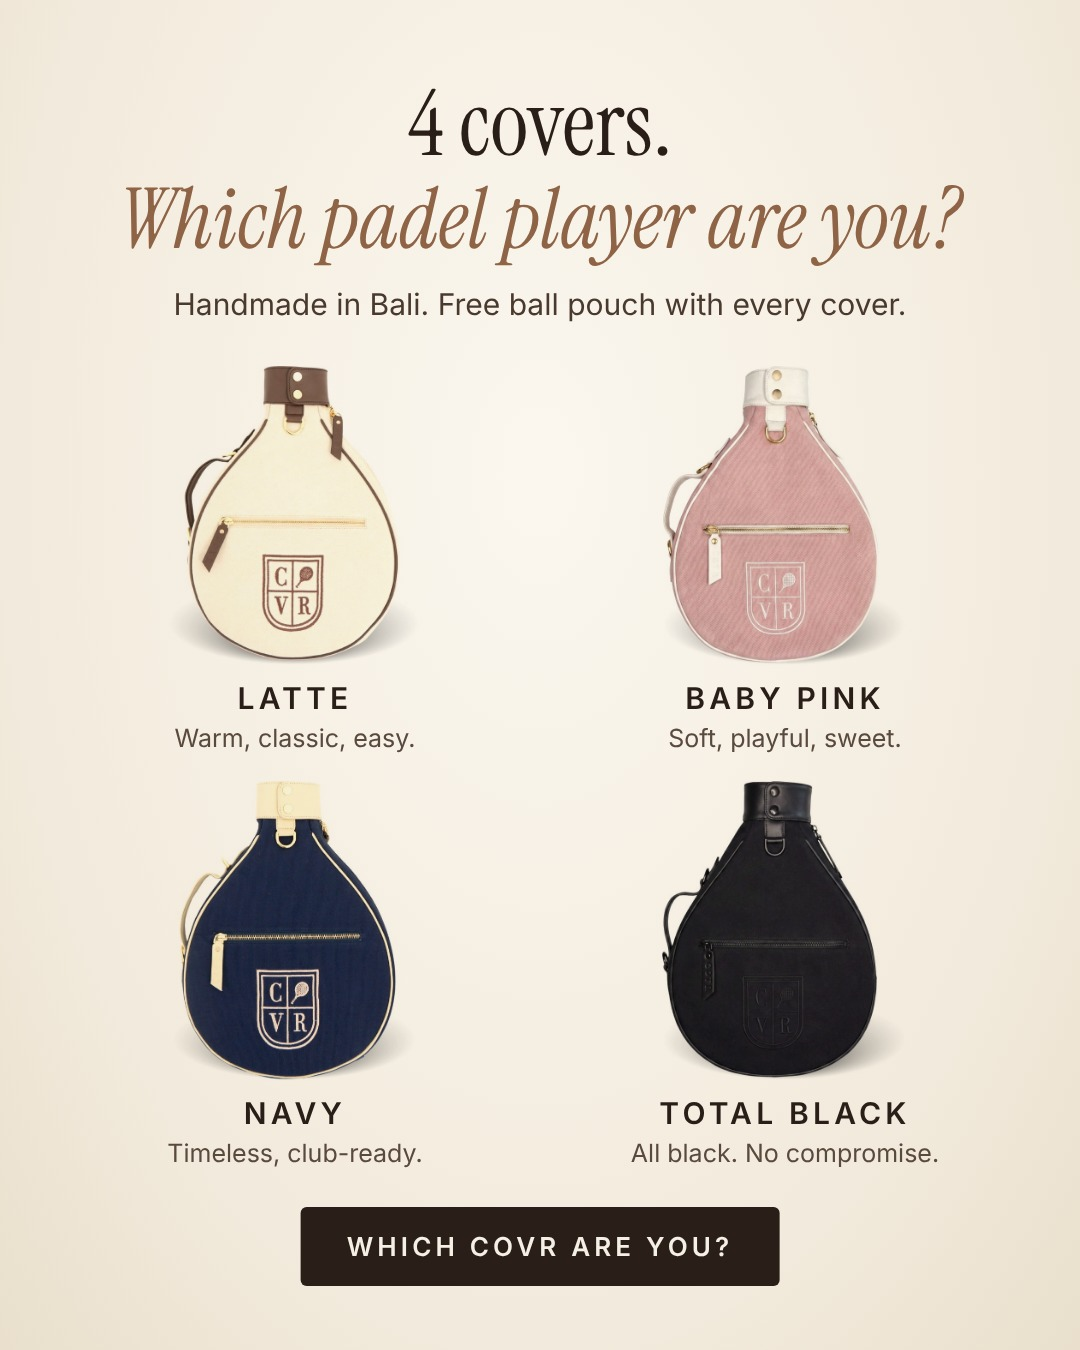
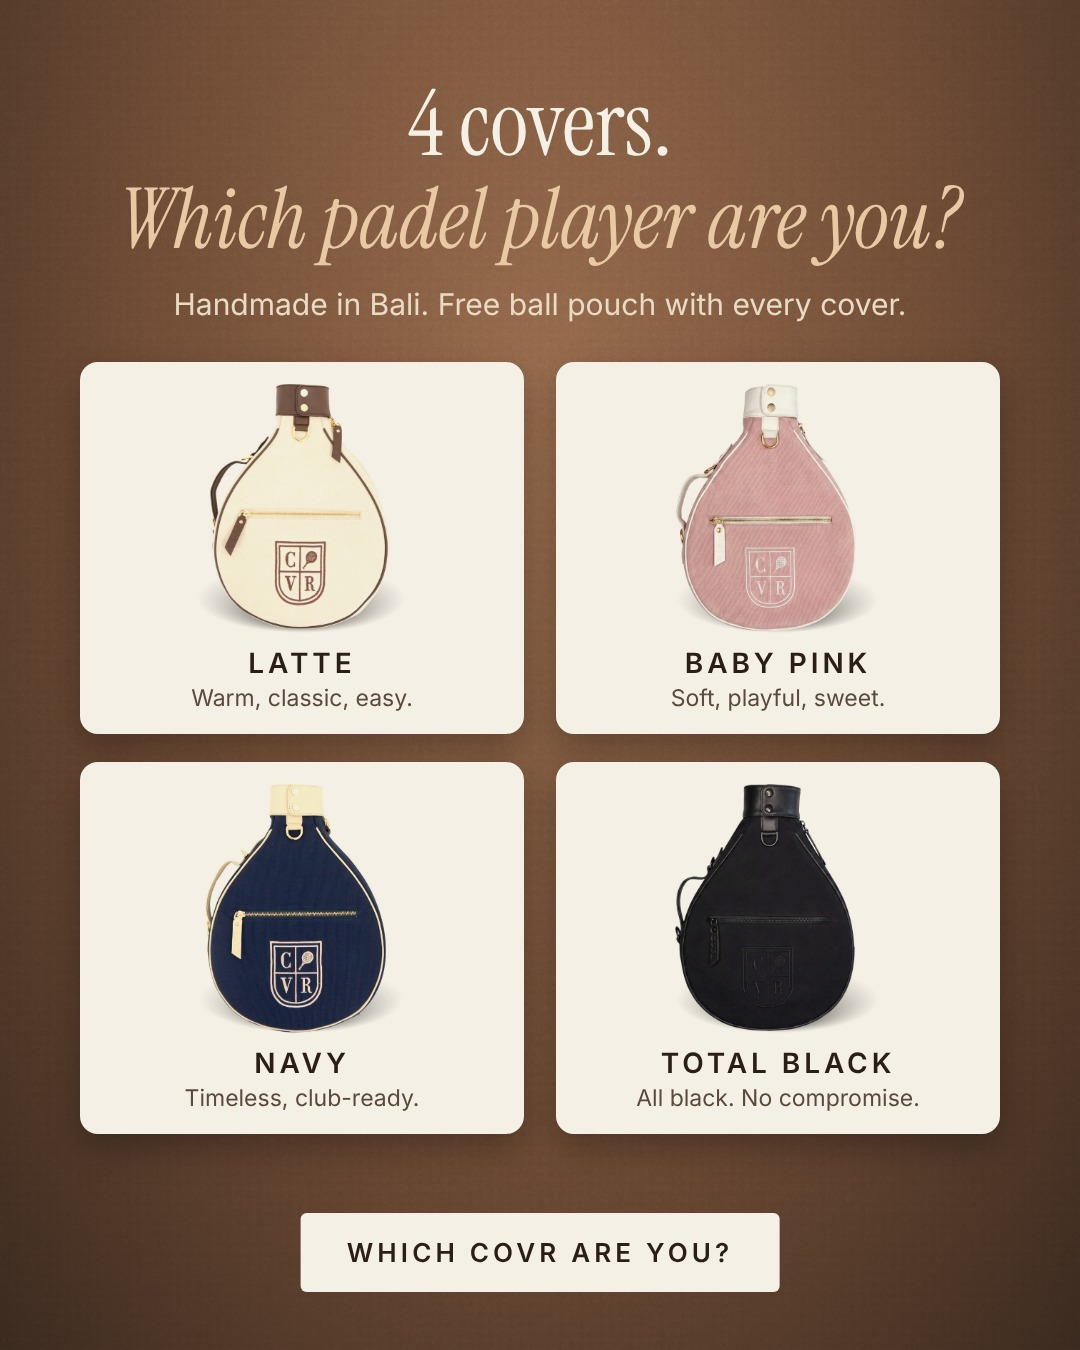
Ad: warm brown textured background with cream cards
Claude-Session: https://claude.ai/code/session_01V345AG8PM5DpNjc2uC2RjB

diff --git a/ads/instagram/covr-which-player-are-you.html b/ads/instagram/covr-which-player-are-you.html
@@ -5,16 +5,19 @@
 @font-face{font-family:Inter;font-weight:500;src:url(file:///home/user/covr-ads/creative/fonts/Inter-500.ttf)}
 @font-face{font-family:Inter;font-weight:600;src:url(file:///home/user/covr-ads/creative/fonts/Inter-600.ttf)}
 *{margin:0;box-sizing:border-box}
-body{width:1080px;height:1350px;background:radial-gradient(ellipse at 50% 35%,#FBF7EF 0%,#F2EADC 70%,#E9DFCC 100%);font-family:Inter;color:#2a1f18;text-align:center;position:relative;overflow:hidden}
+body{width:1080px;height:1350px;background:radial-gradient(ellipse at 50% 30%,#9a6e4f 0%,#6e4b35 55%,#3b2a1f 100%);font-family:Inter;color:#F5F0E6;text-align:center;position:relative;overflow:hidden}
 .top{padding-top:78px}
 h1{font:400 92px/1.0 IS}
-h2{font:italic 400 84px/1.05 IS;color:#8f6446;margin-top:6px}
-.sub{font:400 30px Inter;margin-top:22px;color:#4a3a2e}
-.grid{display:grid;grid-template-columns:1fr 1fr;gap:26px 40px;padding:44px 70px 0}
-.it img{height:300px;width:auto;mix-blend-mode:multiply;display:block;margin:0 auto}
-.n{font:600 30px Inter;letter-spacing:.14em;margin-top:14px}
-.d{font:400 25px/1.3 Inter;color:#5a4a3e;margin-top:6px}
-.btn{position:absolute;left:50%;transform:translateX(-50%);bottom:64px;background:#2a1f18;color:#F5F0E6;font:600 26px Inter;letter-spacing:.16em;padding:24px 46px;border-radius:6px;white-space:nowrap}
+h2{font:italic 400 84px/1.05 IS;color:#E8C9A4;margin-top:6px}
+.sub{font:400 30px Inter;margin-top:22px;color:#EADBC6}
+body:before{content:'';position:absolute;inset:0;background:url(texture.png);mix-blend-mode:overlay;opacity:.35}
+.top,.grid{position:relative}
+.grid{display:grid;grid-template-columns:1fr 1fr;gap:28px 32px;padding:40px 80px 0}
+.it{background:#F5F0E6;border-radius:18px;padding:22px 10px 20px;box-shadow:0 14px 34px rgba(0,0,0,.28)}
+.it img{height:250px;width:auto;mix-blend-mode:multiply;display:block;margin:0 auto}
+.n{font:600 28px Inter;letter-spacing:.14em;margin-top:12px;color:#2a1f18}
+.d{font:400 23px/1.3 Inter;color:#5a4a3e;margin-top:4px}
+.btn{position:absolute;left:50%;transform:translateX(-50%);bottom:58px;background:#F5F0E6;color:#2a1f18;font:600 26px Inter;letter-spacing:.16em;padding:24px 46px;border-radius:6px;white-space:nowrap}
 </style></head><body>
 <div class="top"><h1>4 covers.</h1><h2>Which padel player are you?</h2><div class="sub">Handmade in Bali. Free ball pouch with every cover.</div></div>
 <div class="grid">
